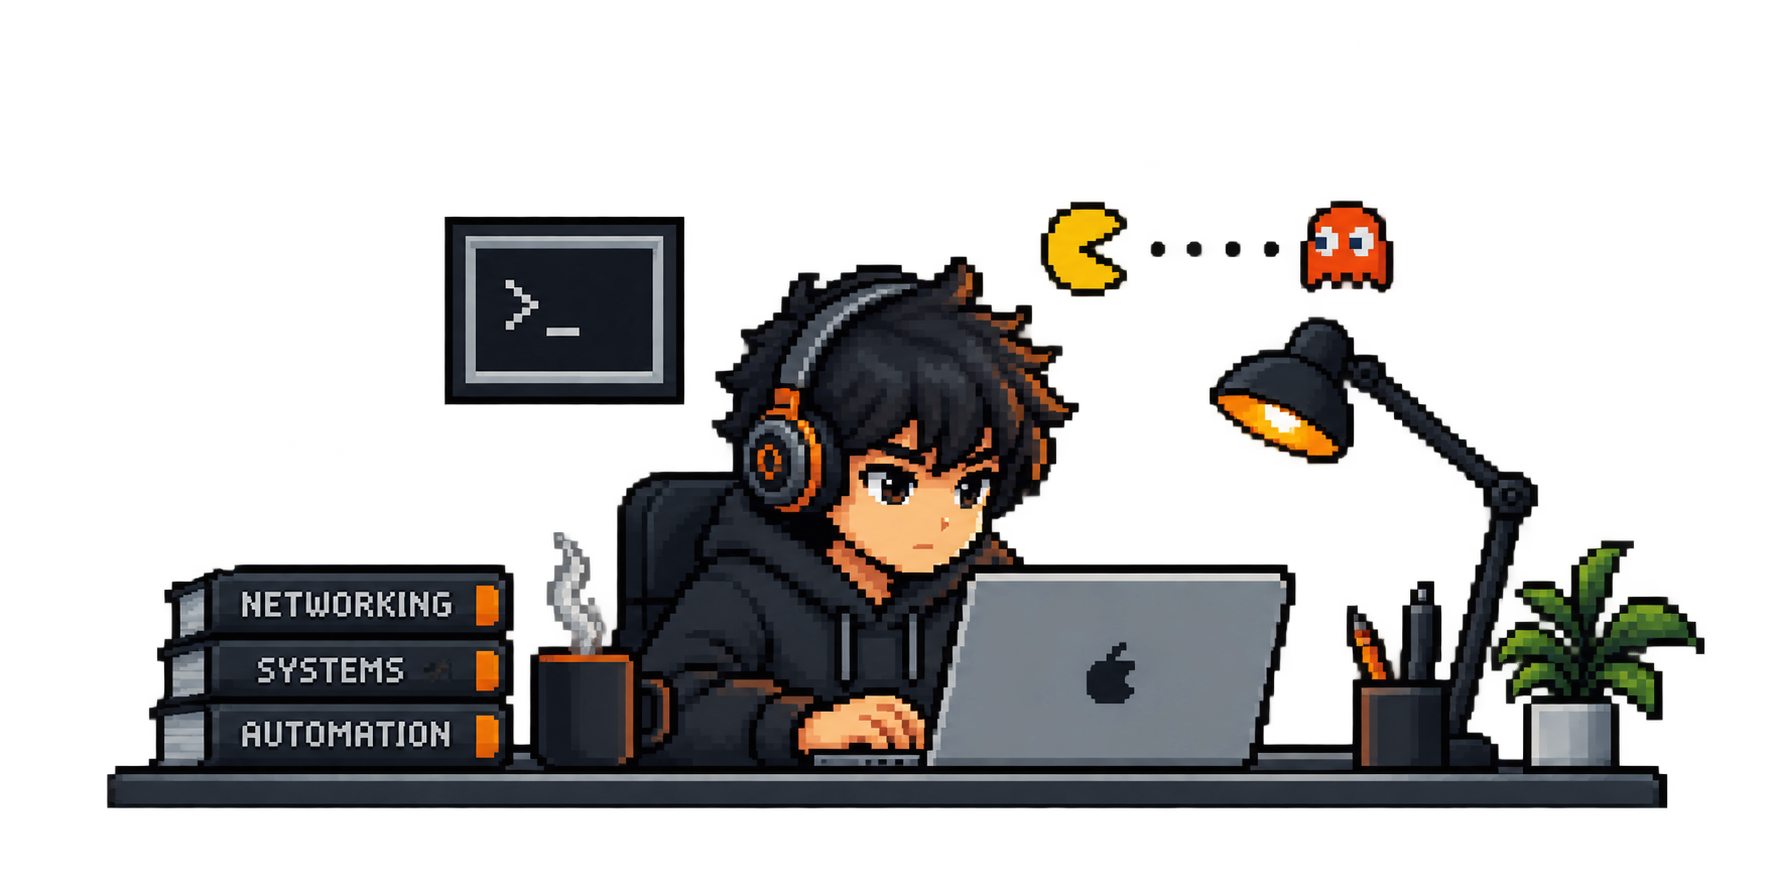
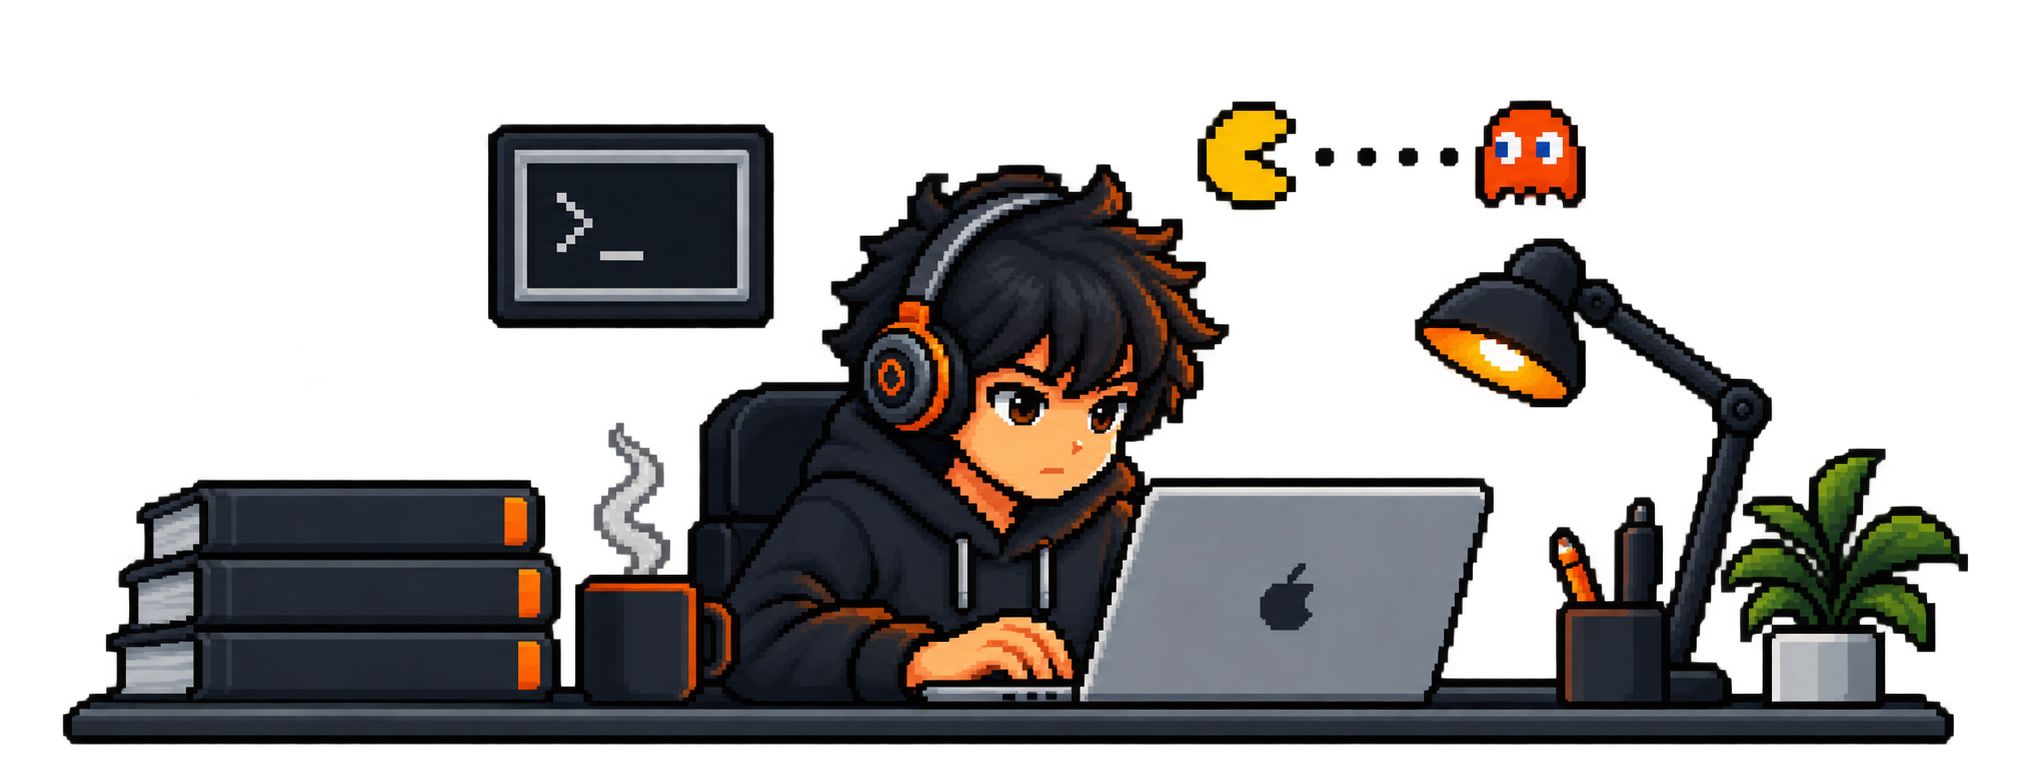
edit

diff --git a/index.html b/index.html
@@ -66,11 +66,11 @@
 
                 <p class="specialties">
 
-                    <span>QUALITY ASSURANCE & ANALYTICS</span>
+                    <span>TECHNICAL & PRODUCT SUPPORT</span>
 
                     <b>•</b> 
 
-                    <span>TECHNICAL & PRODUCT SUPPORT</span>
+                    <span>QUALITY ASSURANCE</span>
 
                     <b>•</b>
 

diff --git a/projects.html b/projects.html
@@ -5,7 +5,7 @@
     <meta charset="UTF-8">
     <meta name="viewport" content="width=device-width, initial-scale=1.0">
 
-    <title>Projects | Juan Sossa</title>
+    <title>Juan Sossa | Projects </title>
 
     <link rel="stylesheet" href="style.css">
 </head>
